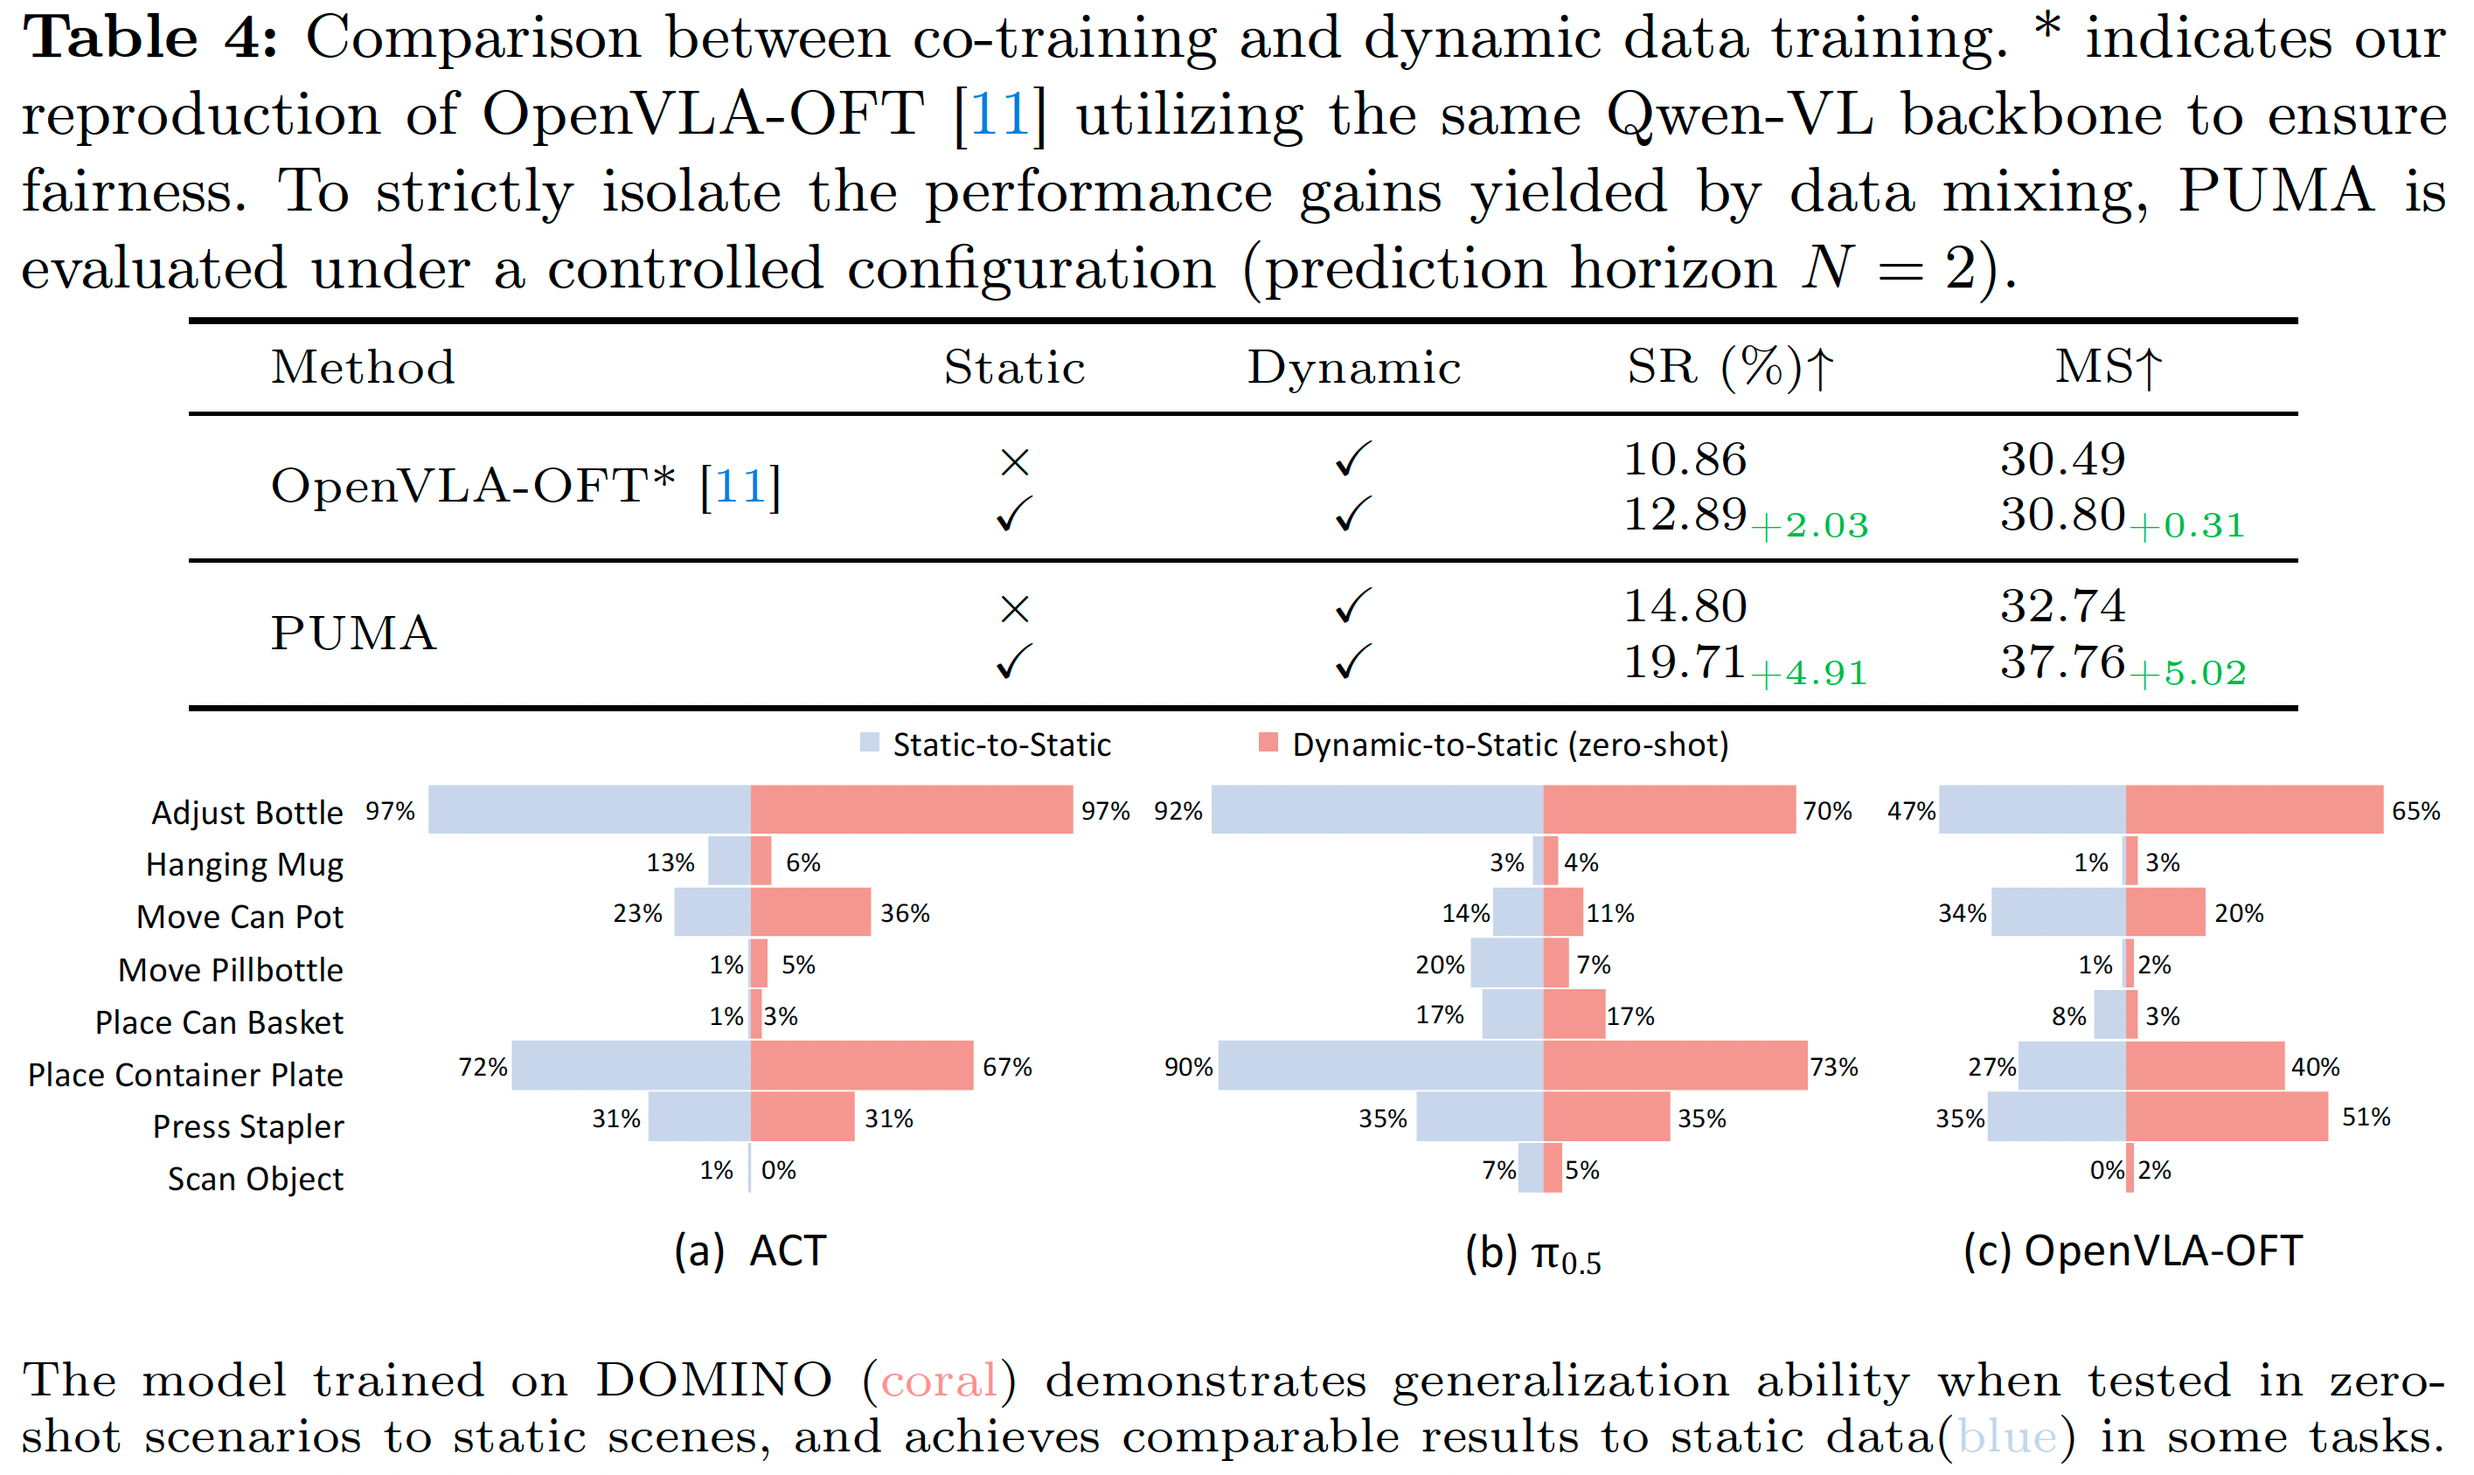
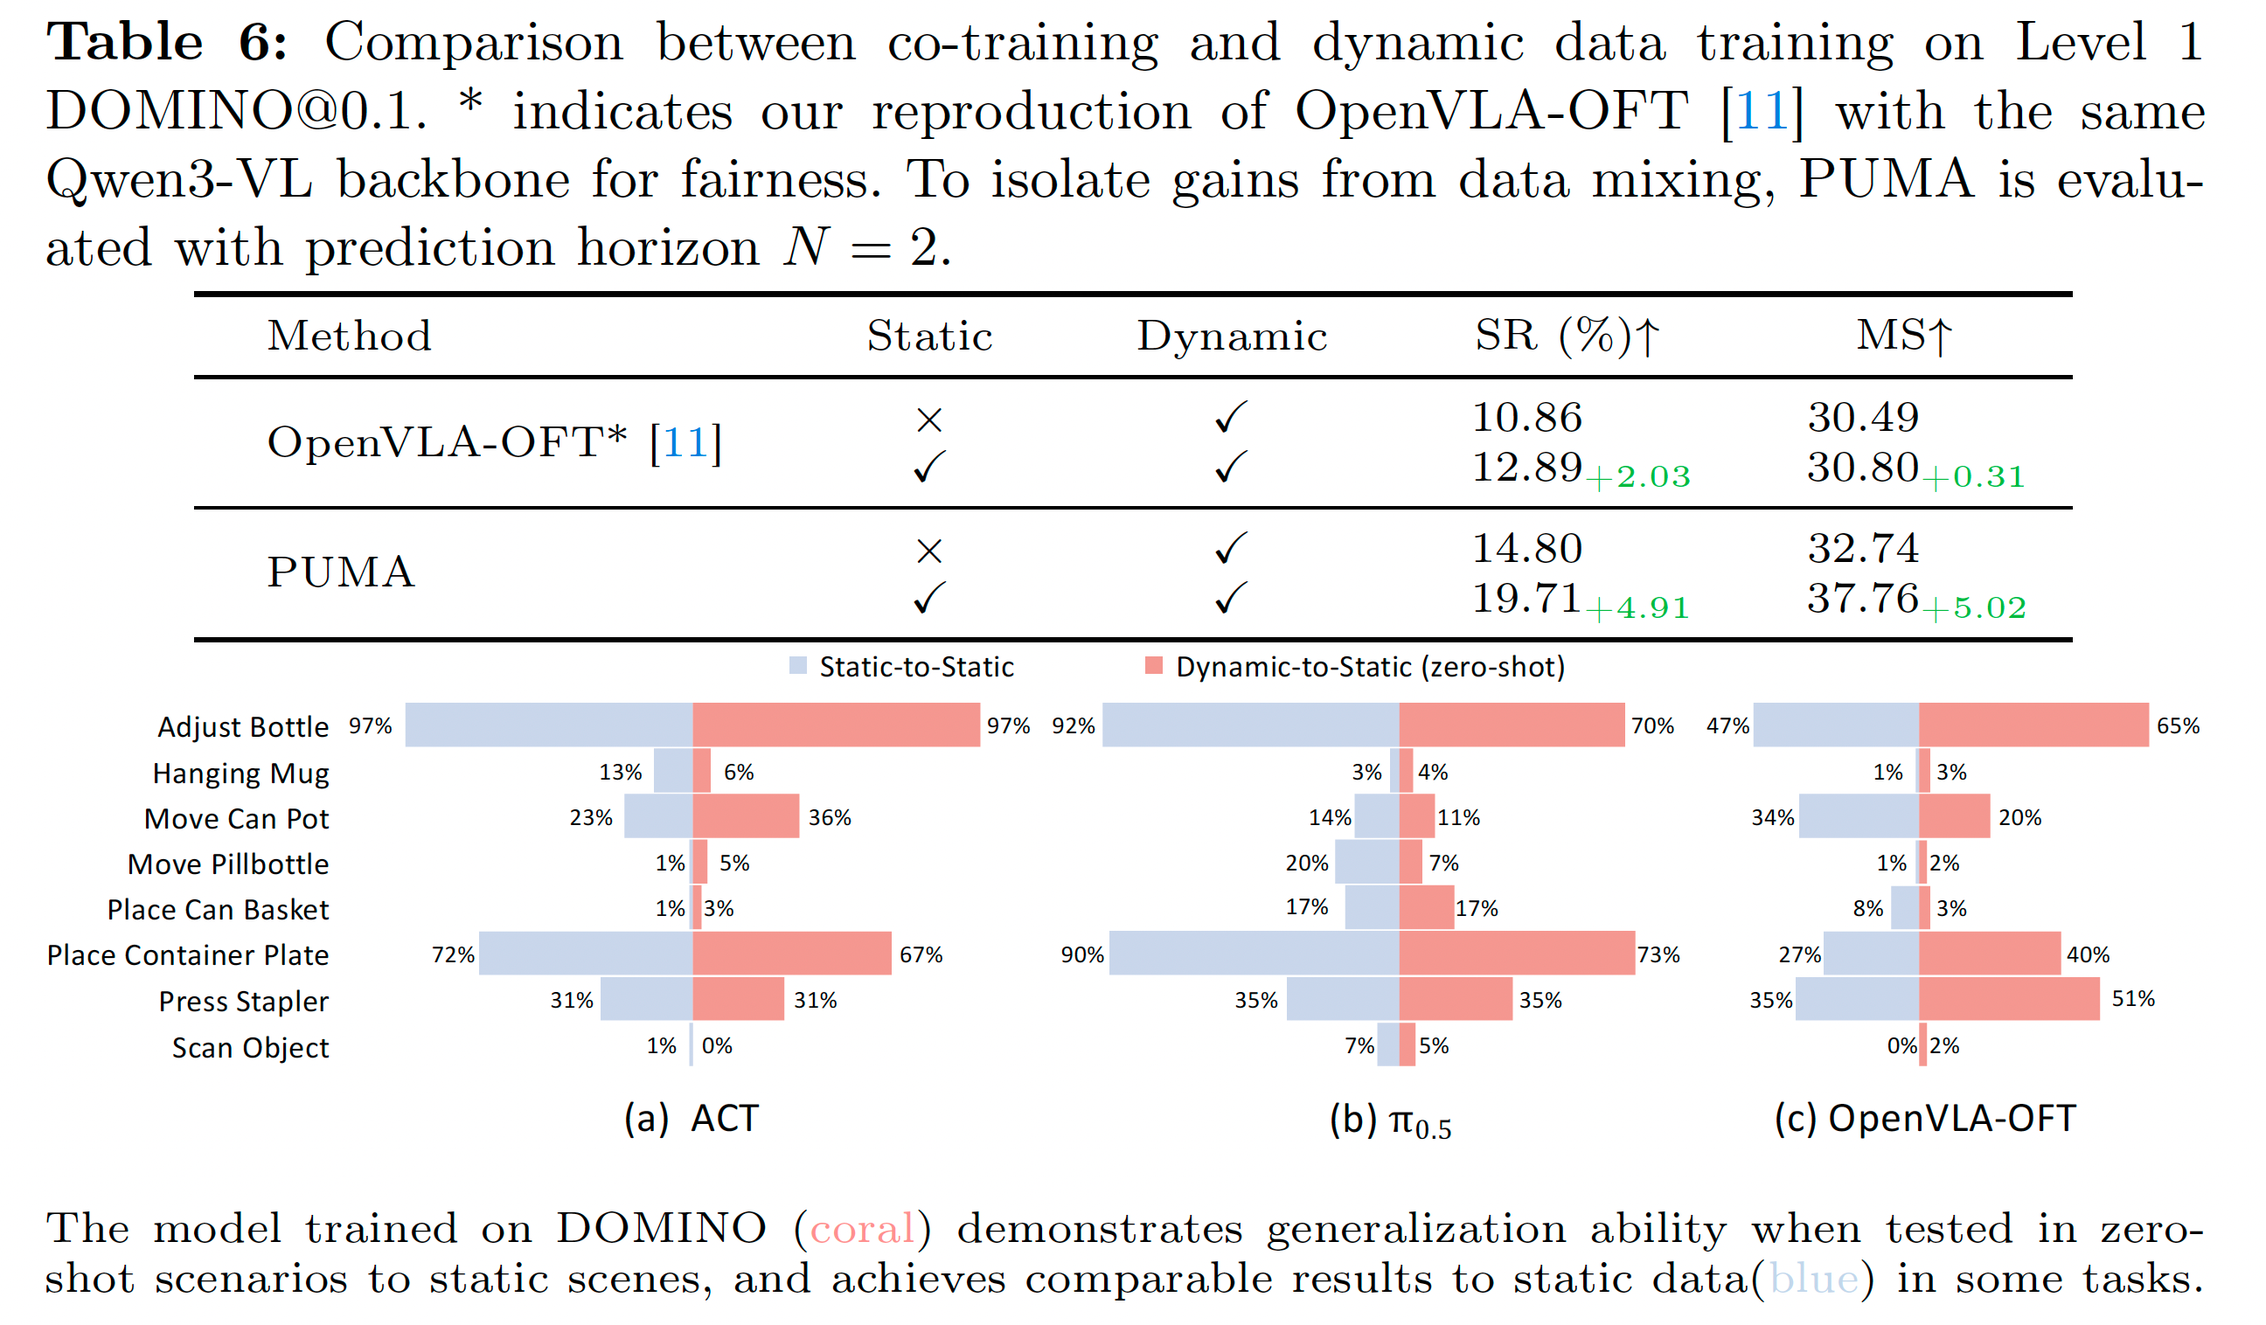
update homepage citation

diff --git a/index.html b/index.html
@@ -21,7 +21,7 @@
   <meta name="citation_author" content="Liang, Dingkang">
   <meta name="citation_author" content="Bai, Xiang">
   <meta name="citation_publication_date" content="2026">
-  <meta name="citation_conference_title" content="arXiv preprint">
+  <meta name="citation_conference_title" content="European Conference on Computer Vision (ECCV)">
   <meta name="citation_pdf_url" content="https://arxiv.org/pdf/2603.15620">
   
   <!-- Additional SEO -->
@@ -101,13 +101,13 @@
     "datePublished": "2026-03-01",
     "publisher": {
       "@type": "Organization",
-      "name": "arXiv"
+      "name": "European Conference on Computer Vision (ECCV)"
     },
     "url": "https://arxiv.org/abs/2603.15620",
     "image": "static/images/social_preview.png",
     "keywords": ["Robotic Manipulation", "Dynamic Environments", "Vision-Language-Action", "machine learning", "computer vision"],
     "abstract": "Vision-Language-Action (VLA) models excel in static manipulation but struggle in dynamic environments with moving targets. This performance gap primarily stems from a scarcity of dynamic manipulation datasets and the reliance of mainstream VLAs on single-frame observations, restricting their spatiotemporal reasoning capabilities. To address this, we introduce DOMINO, a large-scale dataset and benchmark for generalizable dynamic manipulation, featuring 35 tasks with hierarchical complexities, over 110K expert trajectories, and a multi-dimensional evaluation suite. Through comprehensive experiments, we systematically evaluate existing VLAs on dynamic tasks, explore effective training strategies for dynamic awareness, and validate the generalizability of dynamic data. Furthermore, we propose PUMA, a dynamics-aware VLA architecture. By integrating scene-centric historical optical flow and specialized world queries to implicitly forecast object-centric future states, PUMA couples history-aware perception with short-horizon prediction. Results demonstrate that PUMA achieves state-of-the-art performance, yielding a 6.3% absolute improvement in success rate over baselines. Moreover, we show that training on dynamic data fosters robust spatiotemporal representations that transfer to static tasks.",
-    "citation": "@article{fang2026towards, title={Towards Generalizable Robotic Manipulation in Dynamic Environments}, author={Fang, Heng and Li, Shangru and Wang, Shuhan and Xi, Xuanyang and Liang, Dingkang and Bai, Xiang}, journal={arXiv preprint arXiv:2603.15620}, year={2026}}",
+    "citation": "@inproceedings{fang2026towards, title={Towards Generalizable Robotic Manipulation in Dynamic Environments}, author={Fang, Heng and Li, Shangru and Wang, Shuhan and Xi, Xuanyang and Liang, Dingkang and Bai, Xiang}, booktitle={European Conference on Computer Vision (ECCV)}, year={2026}}",
     "isAccessibleForFree": true,
     "license": "https://creativecommons.org/licenses/by/4.0/",
     "mainEntity": {
@@ -179,6 +179,7 @@
                   <div class="is-size-5 publication-authors">
                     <span class="author-block"><sup>1</sup>Huazhong University of Science and Technology, <sup>2</sup>Huawei Technologies Co. Ltd</span>
                     <span class="eql-cntrb" style="font-size: 1em;"><br><sup>†</sup>Project Lead</span>
+                    <p style="margin-top: 0.75rem; font-size: 1.1rem; color: #3273dc;">🎉 Accepted to <strong>ECCV 2026</strong></p>
                   </div>
 
                   <div class="column has-text-centered">
@@ -1013,10 +1014,10 @@
           <span class="copy-text">Copy</span>
         </button>
       </div>
-      <pre id="bibtex-code"><code>@article{fang2026towards,
+      <pre id="bibtex-code"><code>@inproceedings{fang2026towards,
       title={Towards Generalizable Robotic Manipulation in Dynamic Environments},
       author={Fang, Heng and Li, Shangru and Wang, Shuhan and Xi, Xuanyang and Liang, Dingkang and Bai, Xiang},
-      journal={arXiv preprint arXiv:2603.15620},
+      booktitle={European Conference on Computer Vision (ECCV)},
       year={2026}
 }</code></pre>
     </div>

diff --git a/README.md b/README.md
@@ -1,5 +1,6 @@
 ## 📣 News
 
+- **[2026.06.30]** Add acceptance news & update citation.
 - **[2026.03.17]** Release the homepage. Check it out and give it a star 🌟!
 - **[2026.03.27]** Release DOMINO dataset.
 - **[2026.03.30]** Release code and ckpt of PUMA model.
